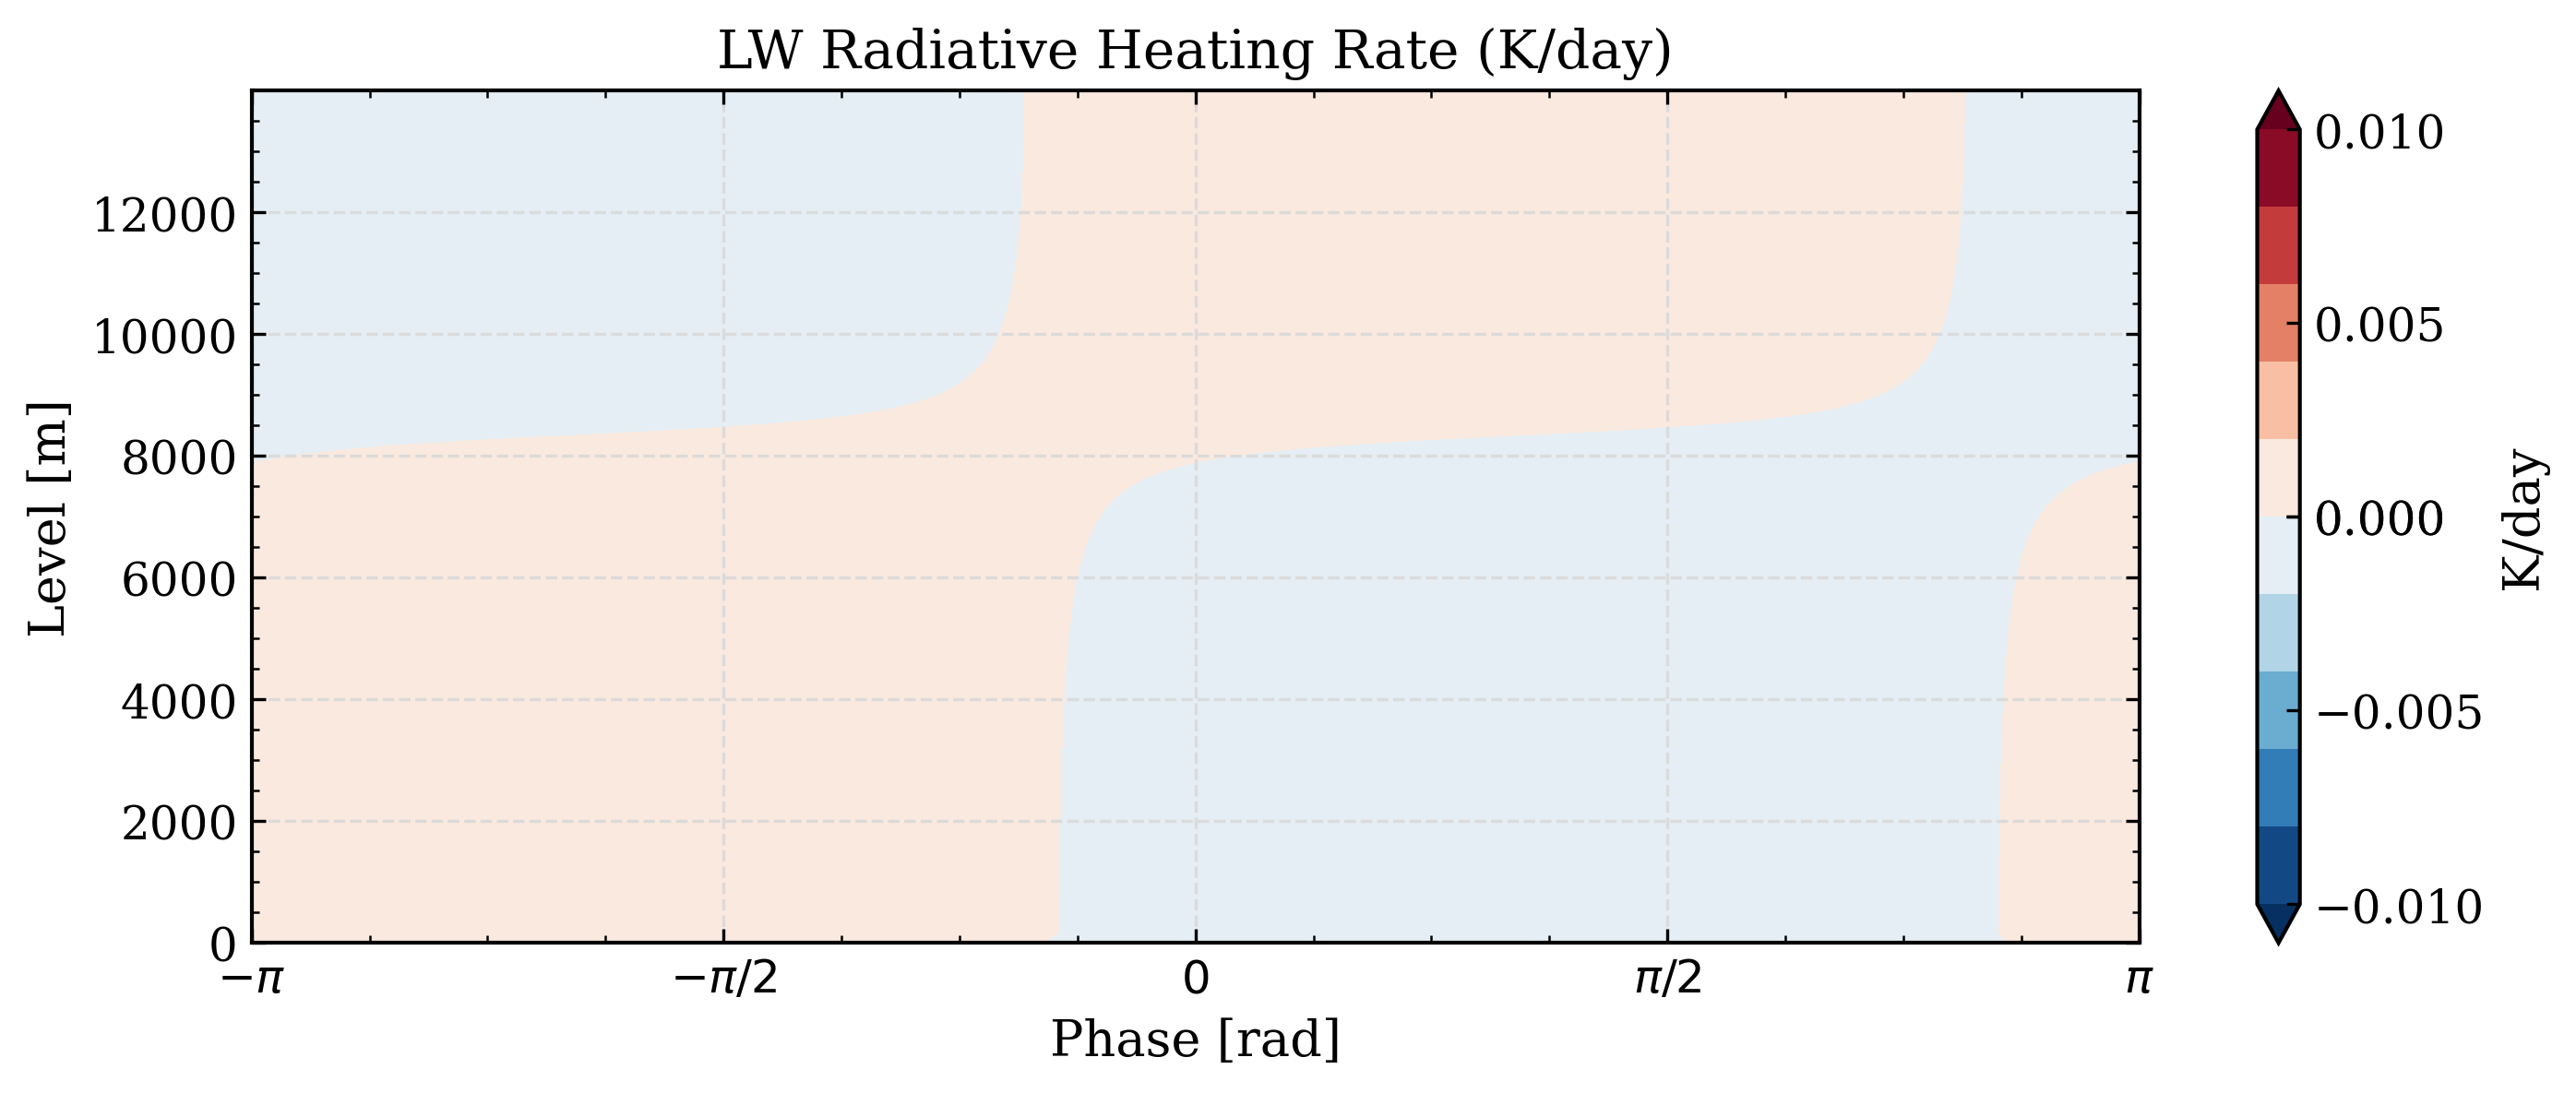
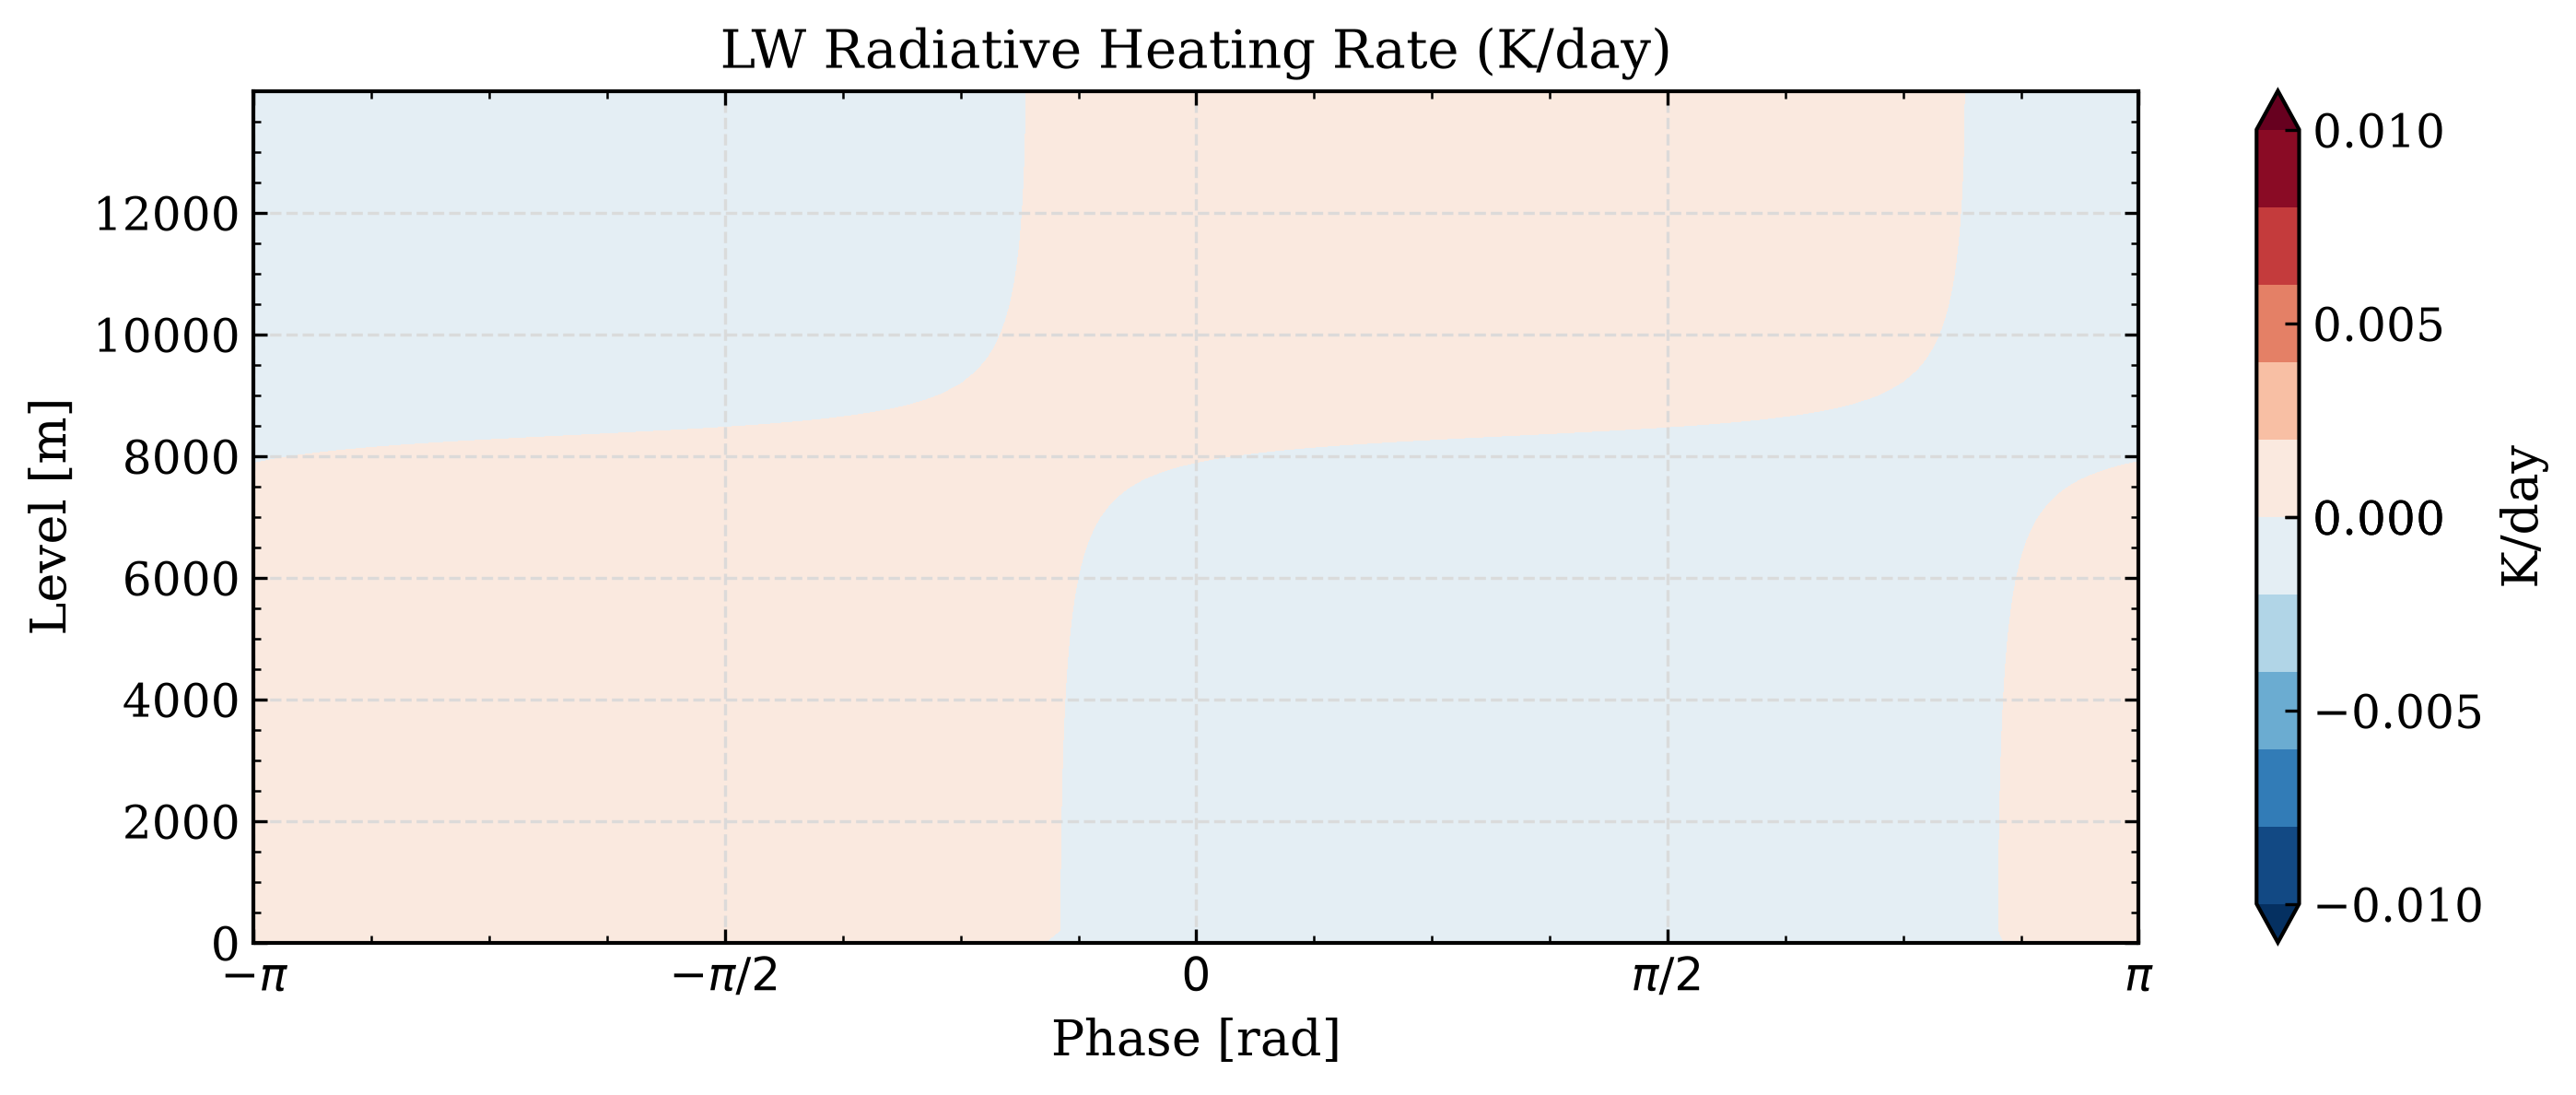
feat: add script to calculate and visualize composite radiative heating profiles

diff --git a/NoRad_CldRad/Code/Rad_composite_new.py b/NoRad_CldRad/Code/Rad_composite_new.py
@@ -1,0 +1,205 @@
+# ====================================================
+# This script is to calculate and compare the equilibrium
+# convective heating profile between experiments
+# ====================================================
+
+# ====================================================
+# Environment setup
+# ====================================================
+
+import h5py
+import numpy as np
+
+from typing import cast
+from pathlib import Path
+from scipy.signal import find_peaks
+
+from matplotlib import pyplot as plt
+from matplotlib.colors import TwoSlopeNorm
+
+# Plot configuration
+style_path = Path("/home/b11209013/Kuang2008_v0.3.0_Analysis/style_sheet/SingleLine.mplstyle")
+plt.style.use(["seaborn-v0_8-colorblind", str(style_path)])
+
+# ====================================================
+# Main function
+# ====================================================
+
+def main():
+    # ------------------------------------------------
+    # Load data
+    # ------------------------------------------------
+
+    # Path setup
+    home_path: Path = Path("/home/b11209013/Kuang2008_v0.3.0_Analysis/NoRad_CldRad")
+    work_path: Path = Path("/work/b11209013/Kuang2008_v0.3.0/full")
+
+    cld_shifts: np.ndarray = np.load(home_path / "data/composite/CldRad/shifts.npy")
+    cld_neg_pi: np.ndarray = np.load(home_path / "data/composite/CldRad/neg_pi.npy")
+    cld_pos_pi: np.ndarray = np.load(home_path / "data/composite/CldRad/pos_pi.npy")
+
+
+    with h5py.File(work_path / "Rad(0.0,0.0,0.1)" / "latest" / "EigenAnalysis.h5", "r") as file:
+        wavenumber: np.ndarray = cast(h5py.Dataset, file["k"])[:]
+        cld_growth: np.ndarray = cast(h5py.Dataset, file["GrowthRates"])[:, 0]
+
+    cld_k: float = wavenumber[np.argmax(cld_growth)]
+
+    # Load state vector of both experiments
+    ## Load CldRad experiment
+    with h5py.File(work_path / "CldRad_combined" / "Fourier.h5", "r") as file:
+
+        Cld_state: dict[str, np.ndarray] = {
+                key: cast(h5py.Dataset, value)[..., 26:29, :46]
+                for (key, value) in file.items()
+                if key.startswith(("w", "q", "T"))
+                }
+
+    # ------------------------------------------------
+    # Calculate radiative heating evolution
+    # ------------------------------------------------
+
+    Rw11LW: float = 0.0763 * 0.1 ; Rw11SW: float = 0.0569 * 0.1
+    Rw12LW: float = 0.118 * 0.1  ; Rw12SW: float = -0.0571 * 0.1
+    Rw21LW: float = -0.0585 * 0.1; Rw21SW: float = -0.0422 * 0.1
+    Rw22LW: float = -0.141 * 0.1 ; Rw22SW: float = 0.0711 * 0.1
+
+    # Calculate Leq evolution for the two experiments
+    LW1: np.ndarray = Rw11LW * Cld_state["w1"] + Rw21LW * Cld_state["w2"]
+    LW2: np.ndarray = Rw12LW * Cld_state["w1"] + Rw22LW * Cld_state["w2"]
+    SW1: np.ndarray = Rw11SW * Cld_state["w1"] + Rw21SW * Cld_state["w2"]
+    SW2: np.ndarray = Rw12SW * Cld_state["w1"] + Rw22SW * Cld_state["w2"]
+
+    print("LW1 shape: ", LW1.shape)
+
+    # ------------------------------------------------
+    # Calculate Vertical profiles of Qr
+    # ------------------------------------------------
+    # Calculate vertical structure
+    ## design Galerkin basis
+    z : np.ndarray = np.linspace(0, 14000, 71)
+    G1: np.ndarray = np.pi/2 * np.sin(np.pi*z/z.max()) * (9.81/1004.5 - 0.0065)
+    G2: np.ndarray = np.pi/2 * np.sin(2*np.pi*z/z.max()) * (9.81/1004.5 - 0.0065)
+
+    ## Calculate mean density profile
+    Tmean    : np.ndarray = 300.0 - 0.0065*z
+    pmean    : np.ndarray = 1e5 * (1 - 0.0065*z/300.0) ** (9.81/0.0065/287.5)
+    alphamean: np.ndarray = 1/(pmean / Tmean / 287.5)
+
+    ## Calculate vertical profile
+    LW1_3D : np.ndarray = np.einsum("xte,z->xtze", LW1, G1) * alphamean[None, None, :, None]
+    LW2_3D : np.ndarray = np.einsum("xte,z->xtze", LW2, G2) * alphamean[None, None, :, None]
+    SW1_3D : np.ndarray = np.einsum("xte,z->xtze", SW1, G1) * alphamean[None, None, :, None]
+    SW2_3D : np.ndarray = np.einsum("xte,z->xtze", SW2, G2) * alphamean[None, None, :, None]
+
+    print("LW1_3D shape: ", LW1_3D.shape)
+
+    # ------------------------------------------------
+    # Composite Leq profile
+    # ------------------------------------------------
+    
+    # Pre-allocate data
+    LW1_rolled: np.ndarray = np.zeros_like(LW1_3D)
+    LW2_rolled: np.ndarray = np.zeros_like(LW2_3D)
+    SW1_rolled: np.ndarray = np.zeros_like(SW1_3D)
+    SW2_rolled: np.ndarray = np.zeros_like(SW2_3D)
+    print("cld_shifts shape: ", cld_shifts.shape)
+    # Roll data
+    for j in range(cld_shifts.shape[0]):
+        for e in range(cld_shifts.shape[-1]):
+            LW1_rolled[:, j, :, e] = np.roll(LW1_3D[:, j, :, e], shift=cld_shifts[j, e], axis=0)
+            LW2_rolled[:, j, :, e] = np.roll(LW2_3D[:, j, :, e], shift=cld_shifts[j, e], axis=0)
+            SW1_rolled[:, j, :, e] = np.roll(SW1_3D[:, j, :, e], shift=cld_shifts[j, e], axis=0)
+            SW2_rolled[:, j, :, e] = np.roll(SW2_3D[:, j, :, e], shift=cld_shifts[j, e], axis=0)
+
+    # Composite and chunk the domain
+    LW_chunked: np.ndarray = np.real(
+            LW1_rolled.mean(axis=(1, -1)) + LW2_rolled.mean(axis=(1, -1))
+            )[cld_neg_pi:cld_pos_pi+1]
+
+    SW_chunked: np.ndarray = np.real(
+            SW1_rolled.mean(axis=(1, -1)) + SW2_rolled.mean(axis=(1, -1))
+            )[cld_neg_pi:cld_pos_pi+1]
+
+    # Form data to save
+    LW_chunked_wo_composite: np.ndarray = np.real(
+            LW1_rolled[cld_neg_pi:cld_pos_pi+1, ...] + LW2_rolled[cld_neg_pi:cld_pos_pi+1, ...]
+            ).transpose(1, 3, 0, 2)
+
+    SW_chunked_wo_composite: np.ndarray = np.real(
+            SW1_rolled[cld_neg_pi:cld_pos_pi+1, ...] + SW2_rolled[cld_neg_pi:cld_pos_pi+1, ...]
+            ).transpose(1, 3, 0, 2)
+
+
+    # ------------------------------------------------
+    # Visualization
+    # ------------------------------------------------   
+    # setting figure path
+    figure_path: Path = home_path / "Figure"
+    # Plot overlay of LW profiles
+    fig, ax = plt.subplots(1, 1, figsize=(11, 4))
+
+    lw_ctf = ax.contourf(
+            np.linspace(-np.pi, np.pi, int(cld_pos_pi - cld_neg_pi + 1)),
+            np.linspace(0, 14000, 71),
+            LW_chunked.T.real, 
+            cmap="RdBu_r",
+            levels=np.linspace(-0.01, 0.01, 11), extend="both"
+            )
+
+    ax.minorticks_on()
+    ax.set_xticks(np.linspace(-np.pi, np.pi, 5))
+    ax.set_xticklabels([r"$-\pi$", r"$-\pi/2$", r"$0$", r"$\pi/2$", r"$\pi$"])
+    ax.set_yticks(np.linspace(0, 12000, 7))
+    ax.set_xlim(-np.pi, np.pi)
+    ax.set_ylim(0, 14000)
+    ax.set_xlabel("Phase [rad]")
+    ax.set_ylabel("Level [m]")
+    ax.set_title(r"LW Radiative Heating Rate (K/day)")
+    cbar = fig.colorbar(lw_ctf, ax=ax, label="K/day")
+    cbar.set_ticks([-0.01, -0.005, 0,00, 0.005, 0.01])
+
+    plt.savefig(figure_path / "LW.png", dpi=300, bbox_inches="tight")
+    plt.close()
+
+    # Plot overlay of SW profiles
+    fig, ax = plt.subplots(1, 1, figsize=(11, 4))
+
+    sw_ctf = ax.contourf(
+            np.linspace(-np.pi, np.pi, int(cld_pos_pi - cld_neg_pi + 1)),
+            np.linspace(0, 14000, 71),
+            SW_chunked.T.real, 
+            cmap="RdBu_r",
+            levels=np.linspace(-0.01, 0.01, 11), extend="both"
+            )
+
+    ax.minorticks_on()
+    ax.set_xticks(np.linspace(-np.pi, np.pi, 5))
+    ax.set_xticklabels([r"$-\pi$", r"$-\pi/2$", r"$0$", r"$\pi/2$", r"$\pi$"])
+    ax.set_yticks(np.linspace(0, 12000, 7))
+    ax.set_xlim(-np.pi, np.pi)
+    ax.set_ylim(0, 14000)
+    ax.set_xlabel("Phase [rad]")
+    ax.set_ylabel("Level [m]")
+    ax.set_title(r"SW Radiative Heating Rate (K/day)")
+    cbar = fig.colorbar(sw_ctf, ax=ax, label="K/day")
+    cbar.set_ticks([-0.01, -0.005, 0,00, 0.005, 0.01])
+
+    plt.savefig(figure_path / "SW.png", dpi=300, bbox_inches="tight")
+    plt.close()
+
+    # ------------------------------------------------
+    # save files
+    # ------------------------------------------------
+
+    
+    np.save(home_path / "data/composite/CldRad/LW.npy", LW_chunked_wo_composite)
+    np.save(home_path / "data/composite/CldRad/SW.npy", SW_chunked_wo_composite)
+
+
+# ====================================================
+# Execute main function
+# ====================================================
+
+if __name__ == "__main__":
+    main()